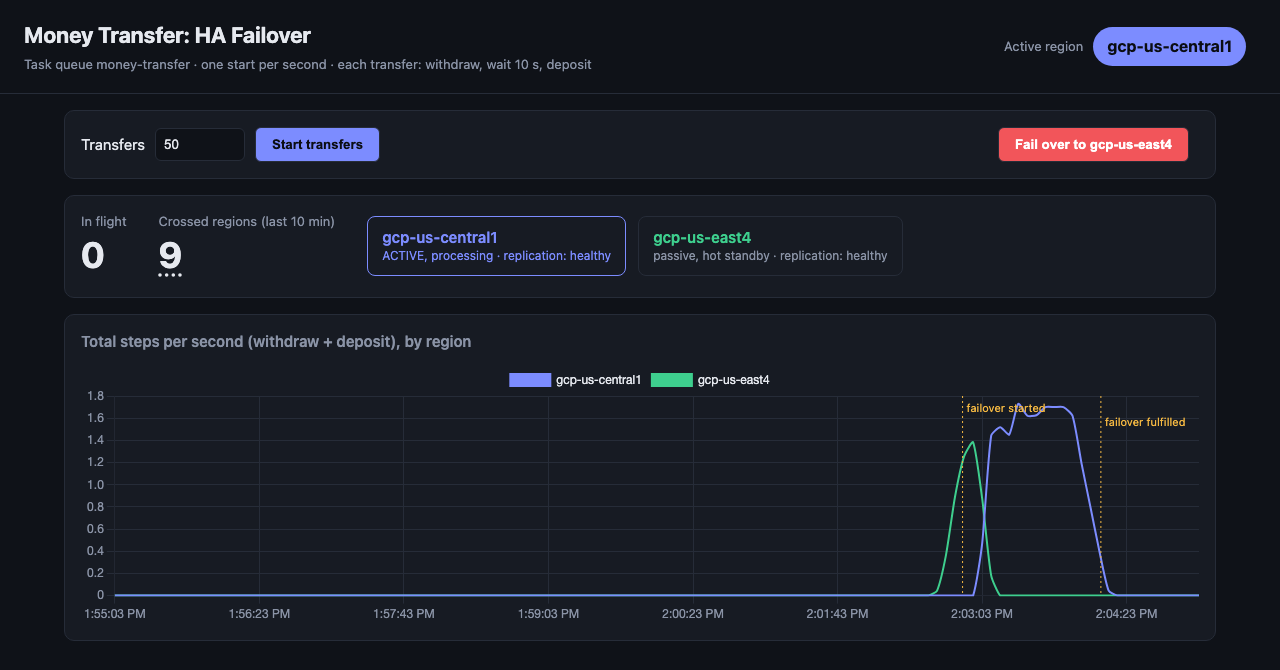
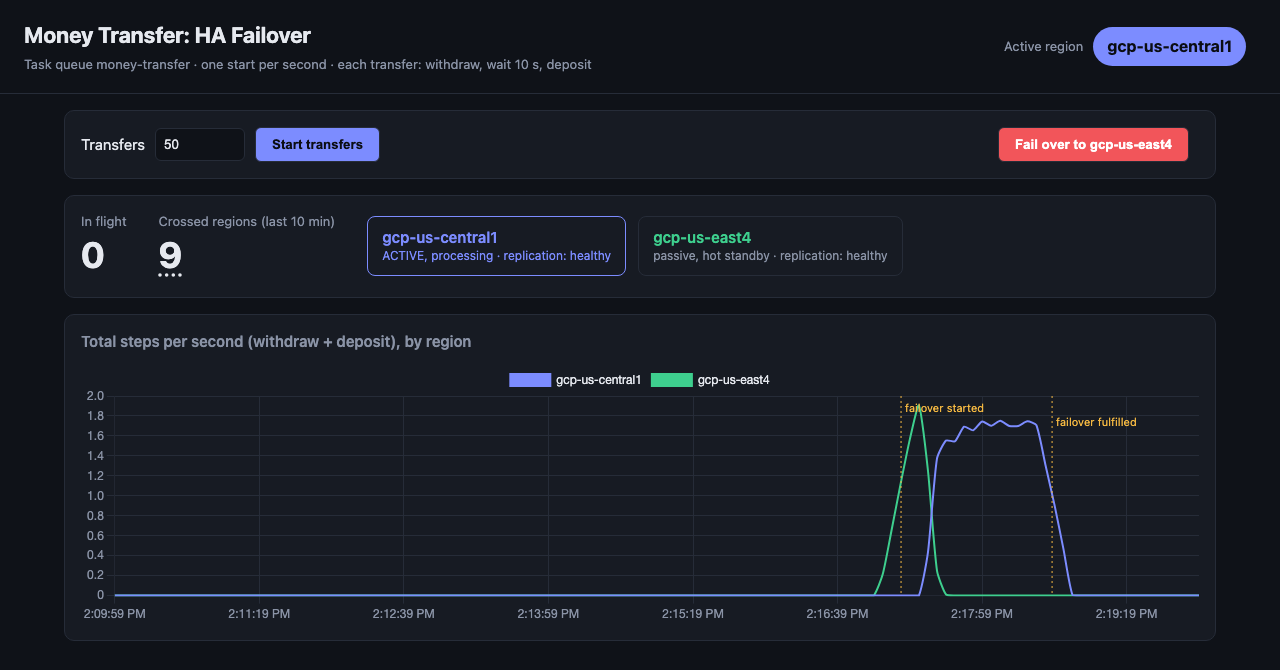
README: retake the screenshot with 75 transfers and fixed region colors

diff --git a/README.md b/README.md
@@ -10,7 +10,7 @@ Money transfers that keep running while a **Temporal Cloud** Namespace fails ove
 
 ![The dashboard during a failover from gcp-us-east4 to gcp-us-central1](docs/images/dashboard-failover.png)
 
-*The dashboard during a failover from us-east4 to us-central1, with 60 transfers started one per second. The amber lines mark when Temporal Cloud started and finished the failover. Between them, work stops in east (green) and continues in central (blue). Nine transfers withdrew in one region and deposited in the other.*
+*The dashboard during a failover from us-east4 to us-central1, with 75 transfers started one per second. The amber lines mark when Temporal Cloud started and finished the failover. Work stops in east (green) and continues in central (blue) while the failover is still finishing. Nine transfers withdrew in one region and deposited in the other.*
 
 ## Architecture
 
